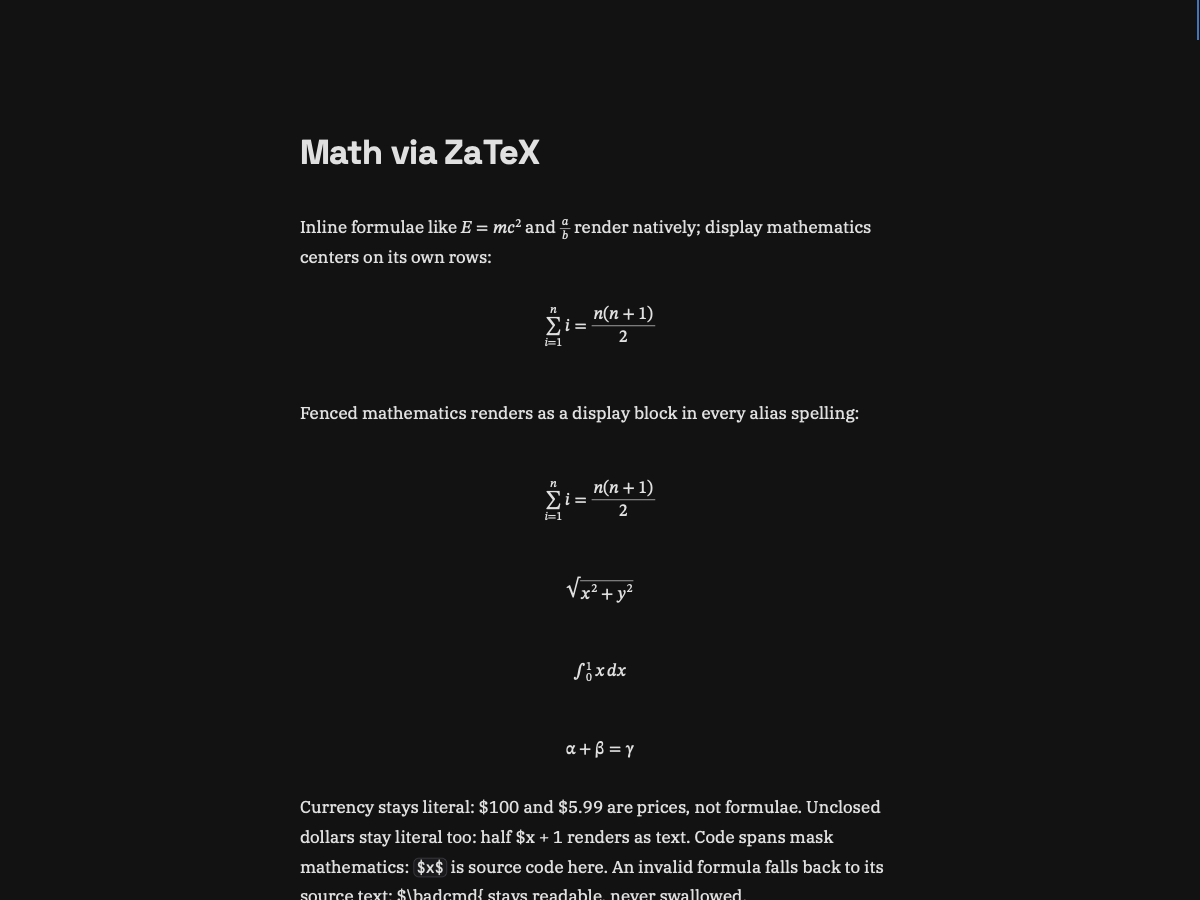
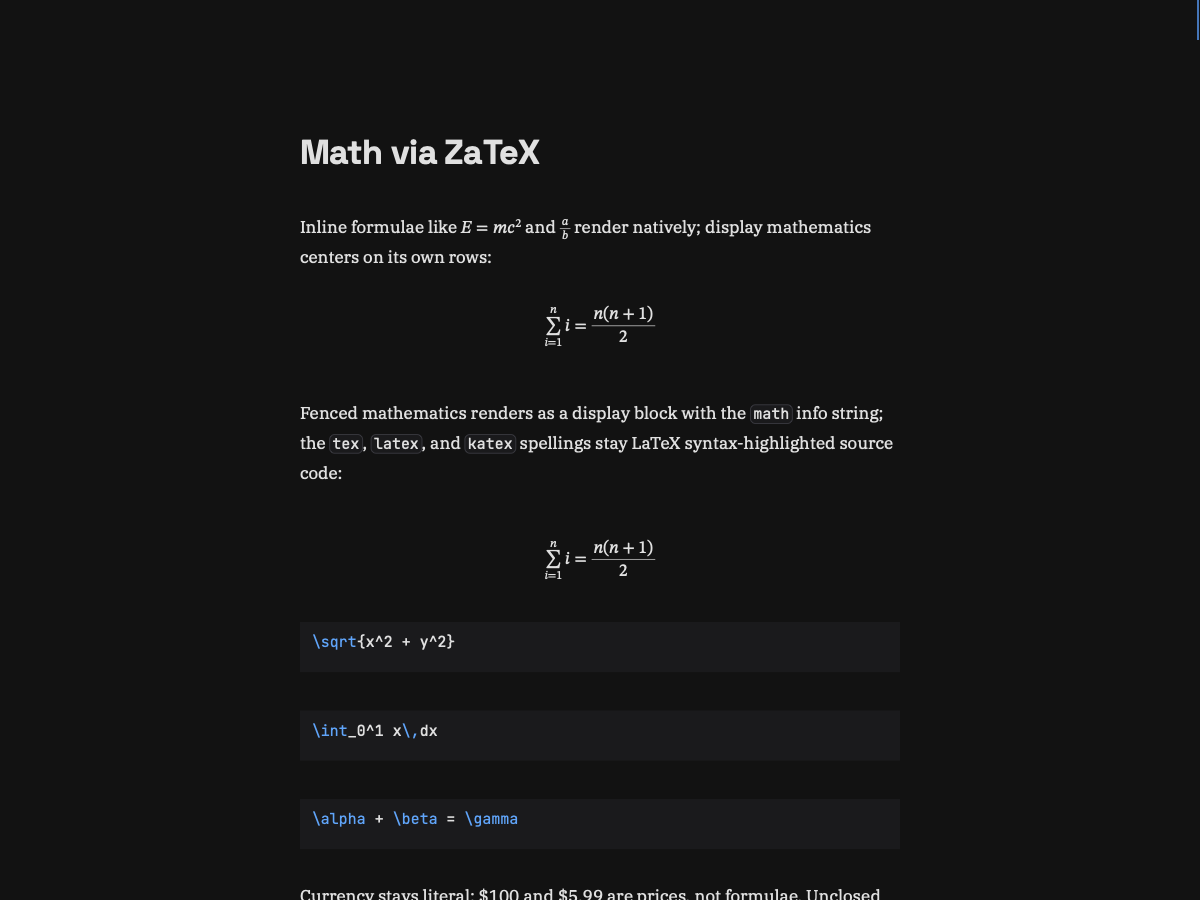
ZaTeX: mid-line display breaks out as block, tall inline shrinks; tex/latex/katex are highlighted code
Display islands ($$…$$) always center as blocks now, even mid-line,
so tall formulae never overlap neighboring rows on the fixed line grid.
Inline islands stay on the baseline with shrink-to-fit for over-height
boxes. Only the exact ```math fence routes to the plugin; tex/latex/
katex fences render as LaTeX syntax-highlighted code (new highlight
family: backslash commands + %-comments).

529/529 tests green, size gate PASS (plugin 12250/12288). Screenshots are
live ZaTeX renders via scratch live build (reverted).

diff --git a/docs/spec.md b/docs/spec.md
@@ -14,15 +14,17 @@ HTML rendering is intentionally unsupported. Numbers for speed and size live onl
 - GFM tables with column measurement, cell alignment, and dividers
 - Plugin diagrams (mermaid; cached async render, code fallback)
 - YAML frontmatter (`---` … `---`/`...` at byte 0 with a `key: value` line): hidden, renders nothing
-- Math blocks via ZaTeX: fenced `math`/`tex`/`latex`/`katex`, and whole-line
-  `$$...$$` display formulae (single line; multi-line display uses fences)
+- Math blocks via ZaTeX: fenced `math`, and whole-line `$$...$$`
+  display formulae (single line; multi-line display uses fences).
+  `tex`/`latex`/`katex` fences stay LaTeX syntax-highlighted code blocks
 
 ## Inlines
 
 - Code spans, emphasis (`*`, `_`), strong (`**`, `__`), triple (`***`, `___`)
 - Strikethrough (`~~`), inline links (`[text](url)`), autolinks (`<https://…>`, `<email>`), bare `http(s)://` URLs (GFM), images
-- Math islands via ZaTeX (`$...$` inline; `$$...$$` keeps display metrics even
-  mid-line). Currency guards: `$100`, `$5.99`, `$ `, and unclosed dollars
+- Math islands via ZaTeX (`$...$` inline on the baseline; `$$...$$`
+  always centers as a block, even mid-line). Currency guards: `$100`,
+  `$5.99`, `$ `, and unclosed dollars
   stay literal; code spans mask islands; backslash forms stay literal
   (CommonMark escape precedence)
 - Backslash escapes (`\*`, `\_`, …)
@@ -40,10 +42,11 @@ and skips diagonal strikes (never misdrawn).
 Fallback is sourcetelling, never silent: engine absent or refusing (invalid
 input, over 64 KiB, too deep, expansion limit) renders fences as plain code
 cards and islands as literal text, byte-identical to the pre-math reader.
-v1 limits: tall inline boxes may overlap neighboring rows; math is not
-selectable, not find-highlighted, and not copyable; math inside link text,
-headings, and block code stays literal; display delimiters spanning source
-lines need fence form. Fixture: `test_cases/math.md`.
+v1 limits: inline boxes taller than one row shrink to fit (display
+style mid-line instead breaks out as a block, never overlapping); math is
+not selectable, not find-highlighted, and not copyable; math inside link
+text, headings, and block code stays literal; display delimiters spanning
+source lines need fence form. Fixture: `test_cases/math.md`.
 
 ## Heavy features
 

diff --git a/test_cases/math.md b/test_cases/math.md
@@ -5,7 +5,9 @@ mathematics centers on its own rows:
 
 $$\sum_{i=1}^{n} i = \frac{n(n+1)}{2}$$
 
-Fenced mathematics renders as a display block in every alias spelling:
+Fenced mathematics renders as a display block with the `math` info
+string; the `tex`, `latex`, and `katex` spellings stay LaTeX
+syntax-highlighted source code:
 
 ```math
 \sum_{i=1}^{n} i = \frac{n(n+1)}{2}
@@ -34,9 +36,9 @@ $$\frac{d}{dx} e^x = e^x$$
 
 $$a^2 + b^2 = c^2$$
 
-Mid-line display keeps display metrics and stays in the text flow
-instead of centering as a block: $$x = \frac{-b \pm \sqrt{b^2 - 4ac}}{2a}$$
-right here, and $$x$$ tail likewise never breaks the paragraph.
+Display islands always center as blocks, even mid-line — the quadratic
+$$x = \frac{-b \pm \sqrt{b^2 - 4ac}}{2a}$$ breaks the paragraph above and
+below, and $$x$$ likewise takes its own rows.
 
 ## Literal gallery
 

diff --git a/latex-example.md b/latex-example.md
@@ -17,12 +17,13 @@ $$\sum_{i=1}^{n} i = \frac{n(n+1)}{2}$$
 
 $$\int_0^1 x\,dx = \frac{1}{2}$$
 
-Display style also works mid-line, keeping display metrics: the identity
-$$e^{i\pi} + 1 = 0$$ right here in prose.
+A display island also works mid-line: the identity $$e^{i\pi} + 1 = 0$$
+breaks out as a centered block with display metrics, right here in prose.
 
 ## Fenced blocks
 
-All four fence aliases route to ZaTeX as display blocks.
+The `math` fence routes to ZaTeX as a display block, while `tex`,
+`latex`, and `katex` stay LaTeX syntax-highlighted source code.
 
 ```math
 \sqrt{x^2 + y^2}
